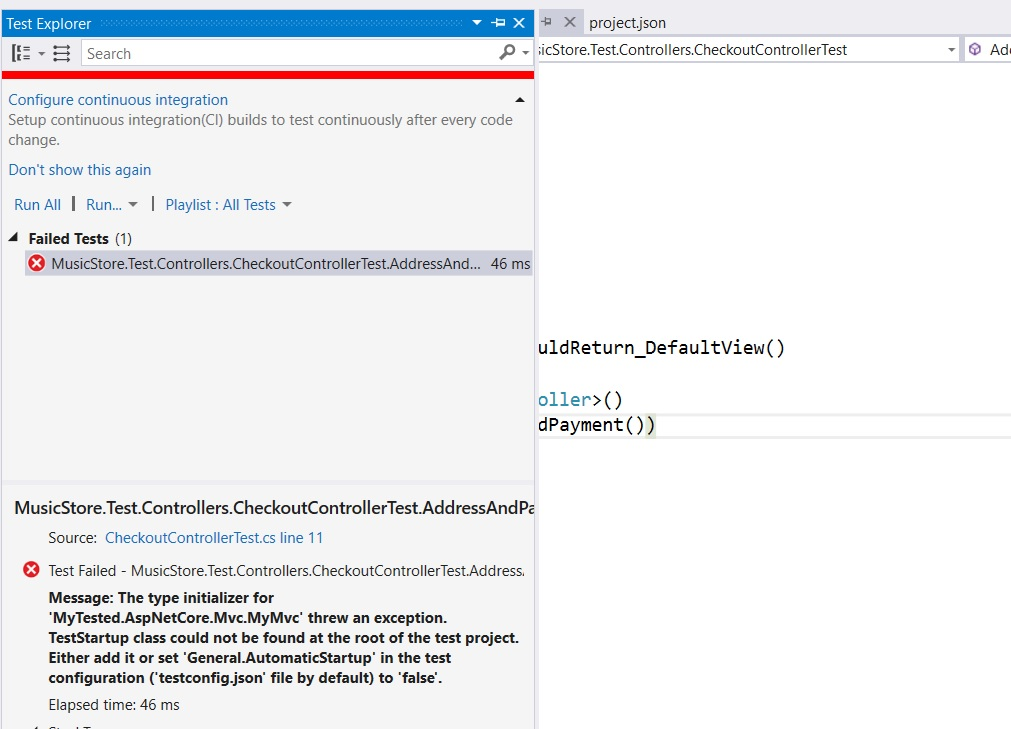
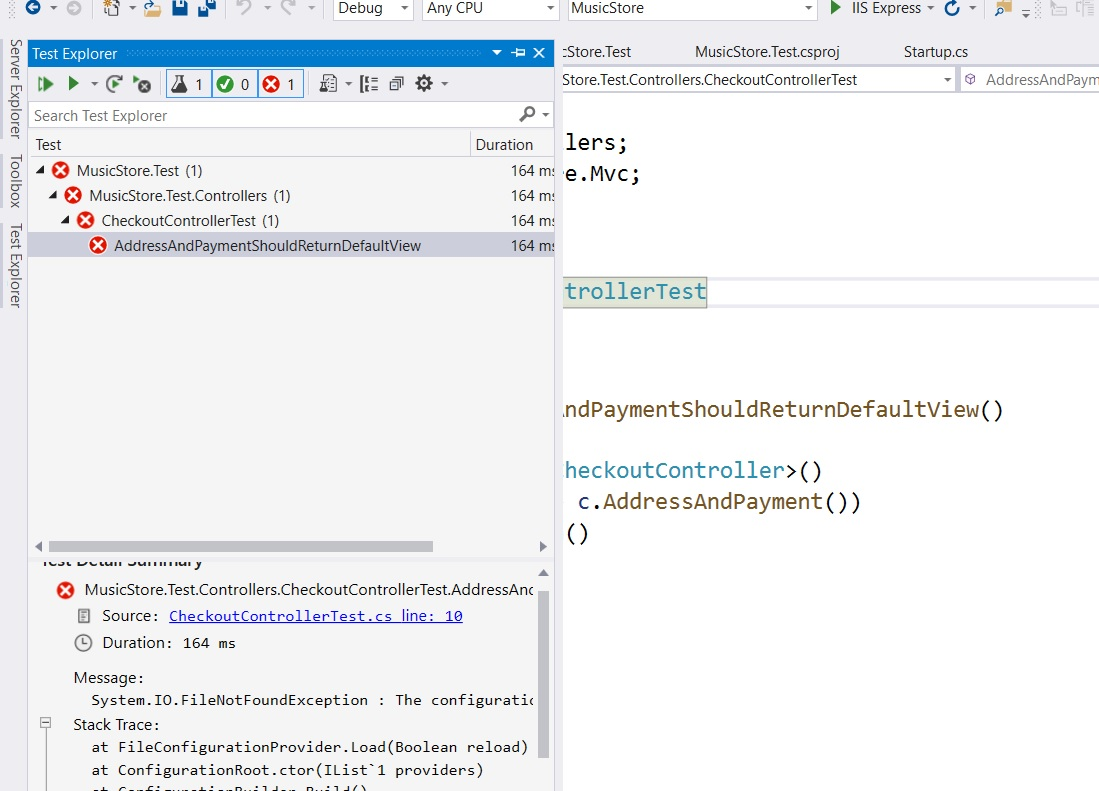
Updated the Getting Started section of the tutorial

Changed region(s): [[0.0, 0.0, 1.0, 0.3923], [0.0, 0.4527, 0.9199, 1.0]]

diff --git a/docs/_docfx/tutorial/gettingstarted.md b/docs/_docfx/tutorial/gettingstarted.md
@@ -4,49 +4,40 @@ In this section we will learn how to configure My Tested ASP.NET Core MVC and ge
 
 ## Prepare test assembly
 
-First things first - we need a test assembly! Open the [Music Store solution](https://raw.githubusercontent.com/ivaylokenov/MyTested.AspNetCore.Mvc/master/docs/files/MusicStore-Tutorial.zip), add **"test"** folder and create a new .NET Core class library called **"MusicStore.Test"** in it.
+First things first - we need a test assembly! Open the [Music Store solution](https://github.com/ivaylokenov/MyTested.AspNetCore.Mvc/raw/development/docs/files/MusicStore-Tutorial.zip) and create a new xUnit test project for .NET Core in it. A good name is **"MusicStore.Test"**.
 
-<img src="/images/tutorial/createtestproject.jpg" alt="Create .NET Core test assembly" />
+<img src="/images/tutorial/createtestproject.jpg" alt="Create .NET Core test project" />
 
-Delete the auto-generated **"Class1.cs"** file and open the **"MusicStore.Test.csproj"** to configure the test runner:
+Delete the auto-generated **"UnitTest1.cs"** file and install [MyTested.AspNetCore.Mvc.Universe](https://www.nuget.org/packages/MyTested.AspNetCore.Mvc.Universe/) from NuGet.
 
-Use NuGet package manager to install these packages:
- - [MyTested.AspNetCore.Mvc](https://www.nuget.org/packages/MyTested.AspNetCore.Mvc/)
- - [MyTested.AspNetCore.Mvc.Universe](https://www.nuget.org/packages/MyTested.AspNetCore.Mvc.Universe/)
- - [xunit](https://www.nuget.org/packages/xunit/)
- - [xunit.runner.visualstudio](https://www.nuget.org/packages/xunit.runner.visualstudio/)
-
-After that you must add reference to the **"MusicStore.Web"** project.
+After that you must add a reference to the **"MusicStore"** project.
 
 Now your **"MusicStore.Test.csproj"** file should look like this*:
 
 ```xml
-<Project Sdk="Microsoft.NET.Sdk.Web">
+<Project Sdk="Microsoft.NET.Sdk">
 
   <PropertyGroup>
     <TargetFramework>netcoreapp2.2</TargetFramework>
+
+    <IsPackable>false</IsPackable>
   </PropertyGroup>
 
   <ItemGroup>
-    <PackageReference Include="Microsoft.AspNetCore.App" Version="2.2.6" />
-    <PackageReference Include="Microsoft.NET.Test.Sdk" Version="16.2.0" />
-    <PackageReference Include="MyTested.AspNetCore.Mvc" Version="2.2.0" />
+    <PackageReference Include="Microsoft.NET.Test.Sdk" Version="16.0.1" />
     <PackageReference Include="MyTested.AspNetCore.Mvc.Universe" Version="2.2.0" />
-    <PackageReference Include="xunit" Version="2.4.1" />
-    <PackageReference Include="xunit.runner.visualstudio" Version="2.4.1">
-      <PrivateAssets>all</PrivateAssets>
-      <IncludeAssets>runtime; build; native; contentfiles; analyzers; buildtransitive</IncludeAssets>
-    </PackageReference>
+    <PackageReference Include="xunit" Version="2.4.0" />
+    <PackageReference Include="xunit.runner.visualstudio" Version="2.4.0" />
   </ItemGroup>
 
   <ItemGroup>
-    <ProjectReference Include="..\MusicStore.Web\MusicStore.Web.csproj" />
+    <ProjectReference Include="..\MusicStore\MusicStore.csproj" />
   </ItemGroup>
 
 </Project>
 ```
 
-*You may need to change/update the versions of the listed packages with more recent ones.
+*You may need to change/update the versions of the listed packages with more recent ones.*
 
 ## Our first test
 
@@ -85,17 +76,21 @@ public void AddressAndPaymentShouldReturnDefaultView()
 
 Note the static **"MyMvc"** class. It is the starting point of the fluent interface, but that depends on the installed packages in the test assembly. More details will be provided later in the tutorial.
 
-Since My Tested ASP.NET Core MVC provides a fluent API, tests can be written with only a single statement. Therefore we can use expression-bodied functions (available in C# 6.0). Of course, if you prefer, you can always use the regular curly brackets, nobody is going to stop you from doing it (for now)! :)
+Since My Tested ASP.NET Core MVC provides a fluent API, tests can be written within a single statement. Therefore we can use expression-bodied functions (available from C# 6.0). Of course, if you prefer, you can always use the regular curly brackets, nobody is going to stop you from doing it (for now)! :)
 
 ## "TestStartup" class
 
 Let's build the solution and run the test.
 
-<img src="/images/tutorial/nostartuperror.jpg" alt="First unit test fails because of missing TestStartup class" />
+<img src="/images/tutorial/nostartuperror.jpg" alt="First unit test fails because of missing configuration" />
 
 Surprise! The simplest test fails. This testing framework is a waste of time! :(
 
-Joke! Don't leave yet! By default, My Tested ASP.NET Core MVC requires a **"TestStartup"** file at the root of the test assembly so let's add one. Write the following code in it:
+Joke! Don't leave yet! By default, My Tested ASP.NET Core MVC will load the **"Startup"** class from your web application. If you take a look inside, you will see it requires a "config.json" file. You may copy this file to your test project to make the test pass right now but we will create a more clever solution.
+
+If you create a **"TestStartup"** class at the root of the test assembly, My Tested ASP.NET Core MVC will use it, instead of using the one from the web application.
+
+Let's add one. Write the following code in it:
 
 ```c#
 namespace MusicStore.Test
@@ -112,7 +107,9 @@ namespace MusicStore.Test
 }
 ```
 
-You may have noticed the constructor of the **"CheckoutController"**. It is not an empty one. My Tested ASP.NET Core MVC uses the registered services from the **"TestStartup"** class to resolve all dependencies and instantiate the controller. We will get into more details about the test service provider later in this tutorial.
+Our **"TestStartup"** inherits the base **"Startup"** class to reuse its logic.
+
+Now, take a look at the **"CheckoutController"**. You may have noticed its constructor is not an empty one. My Tested ASP.NET Core MVC uses the registered services from the **"TestStartup"** class to resolve all dependencies and instantiate the controller. We will get into more details about the global test service provider later in this tutorial.
 
 ## Web configuration
 
@@ -126,7 +123,8 @@ Still here? Good! Now repeat after me and then everything will be explained to y
 
 Go to the **"MusicStore"** project root, copy the **"config.json"** file and paste it at the root of the test project.
 
-After than you must swith **"Copy To Output Directory"** property of **"config.json"** file to **"Copy if newer"** or manualy put this on the **"MusicStore.Test.csproj"** file :
+Afterwards, you must switch the **"Copy To Output Directory"** property of the **"config.json"** file to **"Copy if newer"** or manualy put these lines in the **"MusicStore.Test.csproj"** project:
+
 ```xml
   <!--Other ItemGroups -->
   
@@ -161,7 +159,45 @@ Your **"config.json"** file should look like this:
 }
 ```
 
-Now run the test again in Visual Studio and... oh, miracle, it passes! :)
+Now run the test again in Visual Studio and... Lol, snap, it fails again... What is wrong with this testing framework?! :(
+
+Well, this time it is [Microsoft's fault](https://docs.microsoft.com/en-us/aspnet/core/test/integration-tests?view=aspnetcore-2.2#test-app-prerequisites) (hehe). We need to specify the Web SDK in our test project and reference the **"Microsoft.AspNetCore.App"** metapackage, if we want to test ASP.NET Core 2.2 applications on .NET Core.
+
+Open the **"MusicStore.Test.csproj"** file and update it:
+
+```xml
+<Project Sdk="Microsoft.NET.Sdk.Web"> <!-- Changed project SDK to Microsoft.NET.Sdk.Web -->
+
+  <PropertyGroup>
+    <TargetFramework>netcoreapp2.2</TargetFramework>
+
+    <IsPackable>false</IsPackable>
+  </PropertyGroup>
+
+  <ItemGroup>
+    <PackageReference Include="Microsoft.AspNetCore.App" /> <!-- Reference to the metapackage -->
+    <PackageReference Include="Microsoft.NET.Test.Sdk" Version="16.0.1" />
+    <PackageReference Include="MyTested.AspNetCore.Mvc.Universe" Version="2.2.0" />
+    <PackageReference Include="xunit" Version="2.4.0" />
+    <PackageReference Include="xunit.runner.visualstudio" Version="2.4.0" />
+  </ItemGroup>
+
+  <ItemGroup>
+    <ProjectReference Include="..\MusicStore\MusicStore.csproj" />
+  </ItemGroup>
+
+  <ItemGroup>
+    <Content Update="config.json">
+      <CopyToOutputDirectory>PreserveNewest</CopyToOutputDirectory>
+    </Content>
+  </ItemGroup>
+
+</Project>
+```
+
+*.NET Core 3.0 test projects do not need this change and work correctly without the Web SDK.*
+
+Run the test again and... Oh, miracle, it passes! :)
 
 ## Understanding the details
 
@@ -169,12 +205,12 @@ OK, back to that promise - the detailed explanation for all the different fails.
 
 **Basically two things happened.**
 
-**First**, My Tested ASP.NET Core MVC needs to resolve the services required by the different components in your web application - controllers, view components, etc. By default, the testing framework is configured to need a **"TestStartup"** class at the root of the test project from where it prepares the global service provider. For this reason, we got an exception telling us we need to add the **"TestStartup"** class. Remember:
+**First**, My Tested ASP.NET Core MVC needs to resolve the services required by the different components in your web application - controllers, view components, etc. By default, the testing framework is configured to use a **"TestStartup"** class at the root of the test project (otherwise it tries to load the one from the web application). From there it prepares the global service provider and use it across the tests. Remember:
 
  - Each test project requires separate **"Startup"** class and bootstraps a separate test application and service provider. You may run different configurations in different test assemblies. 
  - Each test runs in a scoped service lifetime - during a test all scoped services will be resolved by using the same instances and for the next test, other instances will be provided. My Tested ASP.NET Core MVC uses this nice little feature to run smooth and autonomous tests for storage providers like the **"DbContext"**, **"IMemoryCache"**, **"ViewDataDictionary"** and many others but more on that later in the tutorial.
  
-Besides the default **"TestStartup"** configuration there are two other options the developer can use - manual fluent configuration and per test setup without any globally registered services. More information can be found [HERE](/guide/startuptypes.html).
+Besides the default **"TestStartup"** configuration there are two other options the developer may use - manual fluent configuration and per test setup without any globally registered services. More information can be found [HERE](/guide/startuptypes.html).
 
 **Second**, the test failed because we did not have the required **"config.json"** file. If you take a look at the **"Startup"** file in the web project, you may see that the constructor of the class has the following lines of code:
 
@@ -184,7 +220,7 @@ var builder = new ConfigurationBuilder()
 	.AddJsonFile("config.json")
 ```
 
-The JSON file is not optional, and since we inherit from the original web **"Startup"**, our **"TestStartup"** class runs the same code thus requiring the **"config.json"** file to be present. (Un)fortunately, the base project directory will be the output directory of the test project, and the test runner will search for the file there. We may make the **"config.json"** optional, but it may lead to unexpected behavior and exceptions in our web application, so our best option here is to copy the same file into the test project and change all important values with dummy ones. Copy-pasting is not a good practice but letting the tests touch and read the original application configuration values like database connection strings, security passwords, and potentially others is even worse. Additionally, only copying the file is not enough for it to end up in the output directory, so we need to add it explicitly in the test assembly's **"MusicStore.Test.csproj"** configuration.
+The JSON file is not optional, and since we inherit from the original web **"Startup"**, our **"TestStartup"** class runs the same code thus requiring the **"config.json"** file to be present. (Un)fortunately, the base project directory will be the output directory of the test project, and the test runner will search for the file there. We may make the **"config.json"** optional, but it may lead to unexpected behavior and exceptions in our web application, so our best option here is to copy the same file into the test project and change all important values with dummy ones. Copy-pasting is not a good practice, but letting the tests touch and read the original application configuration values like database connection strings, security passwords, and potentially others is even worse. Additionally, only copying the file is not enough for it to end up in the output directory, so we need to add it explicitly in the test assembly's **"MusicStore.Test.csproj"** configuration.
 
 ## Error messages
 
